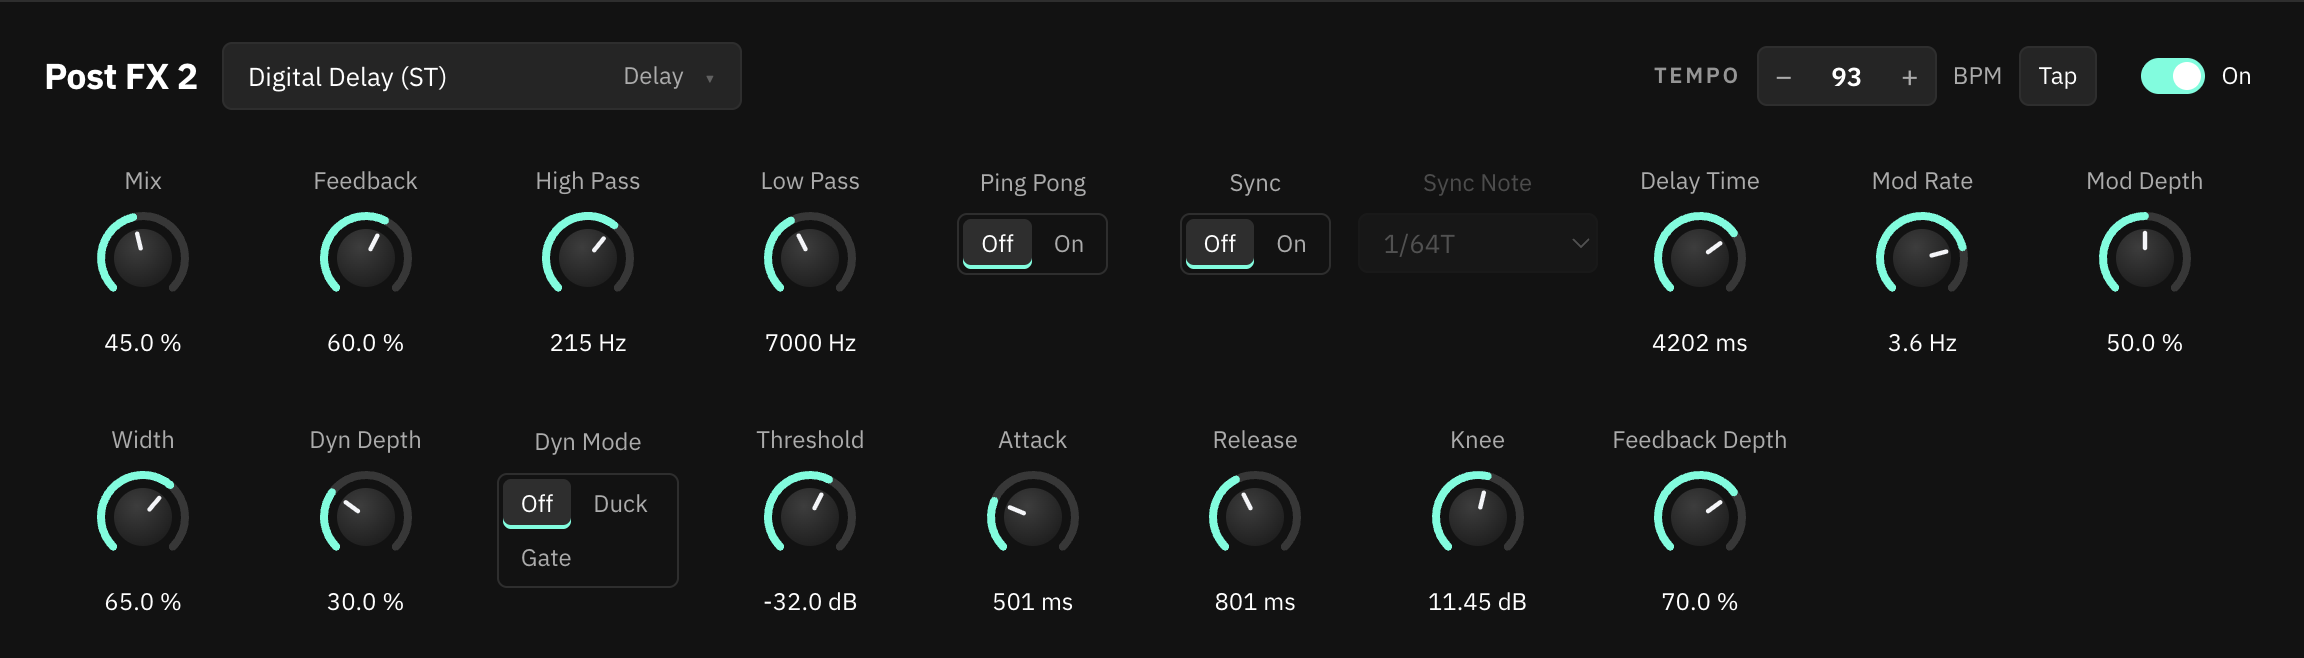
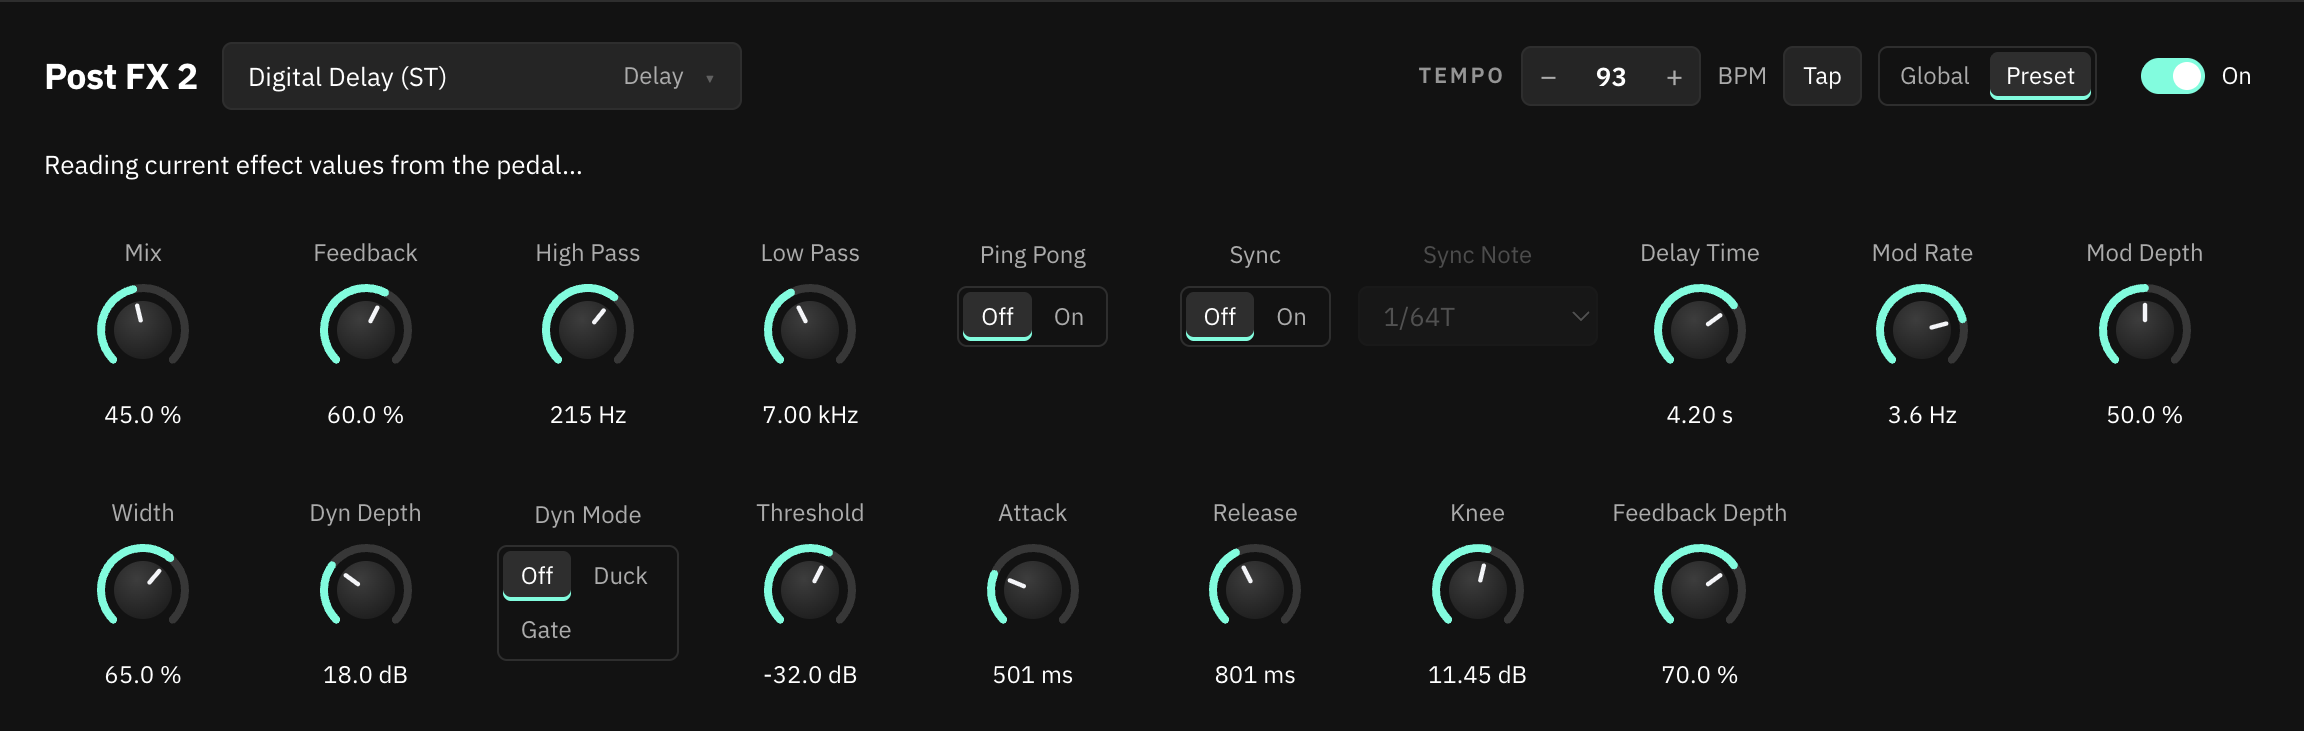
docs: manual pictures for the tempo row and the metronome's Pedal tab; screenshots regenerated on 1.2.4
docs-screenshots.js now captures the Pedal tab (the demo pedal runs NanOS 2.3.0, so the window opens there) and
switches to the Computer tab for the existing metronome pictures. The other images changed because the app did:
the tempo row has the Global | Preset switch, effect values follow the corrected scaling, About says 1.2.4.

diff --git a/scripts/docs-screenshots.js b/scripts/docs-screenshots.js
@@ -182,6 +182,13 @@ async function run() {
 
   // metronome
   await key('n'); await sleep(150);
+  // The demo pedal runs NanOS 2.3.0, so the window opens on the Pedal tab: the pedal's own metronome.
+  await click('[data-fk="pmetro-on"]'); await sleep(80);
+  await js(`(() => { const v = document.querySelector('[data-fk="pmetro-vol"]'); v.value = '-12'; v.dispatchEvent(new Event('input', { bubbles: true }));
+    [...document.querySelectorAll('#metroPedal button')].find(b => b.textContent.trim() === '1/8').click(); return 0; })()`); await sleep(120);
+  await shot('metronome-pedal', '#metroOverlay .tuner-card', 16);
+  await click('[data-fk="pmetro-on"]'); await sleep(80);
+  await click('[data-fk="metro-tab-computer"]'); await sleep(150);
   await shot('metronome-simple', '#metroOverlay .tuner-card', 16);
   await click('[data-fk="metro-mode-advanced"]'); await sleep(100);
   await click('[data-fk="metro-sub-2"]'); await sleep(80);

diff --git a/docs/MANUAL.md b/docs/MANUAL.md
@@ -334,7 +334,7 @@ Each change is live on the pedal and marks the preset as edited: **Save** keeps 
 
 Every inspector's title row shows the preset's **Tempo** in BPM.
 
-![The tempo control: the TEMPO label, − 93 +, BPM and Tap](images/tempo.png)
+![The tempo control: the TEMPO label, − 93 +, BPM, Tap and the Global | Preset switch](images/tempo.png)
 
 - **−** / **+** change it by 1 (Shift: 10). You can also type a value and press Enter, use the arrow keys, or drag
   the **TEMPO** label sideways.
@@ -373,6 +373,8 @@ signature**. The pedal keeps clicking when you close the panel or change preset.
 every tempo change sends them along (the pedal would otherwise fall back to its defaults). Nothing is sent until you
 change something. **Computer** is the
 metronome described below. Only one of the two clicks at a time: starting one stops the other.
+
+![The metronome's Pedal tab: the Pedal | Computer tabs, 93 BPM with − and +, Global | Preset, Metronome on, Volume −12 dB, Sound Blip, Subdivision 1/8, Time signature 4/4, Tap tempo and the note that the pedal doesn't report these settings](images/metronome-pedal.png)
 
 **Simple.**
 
